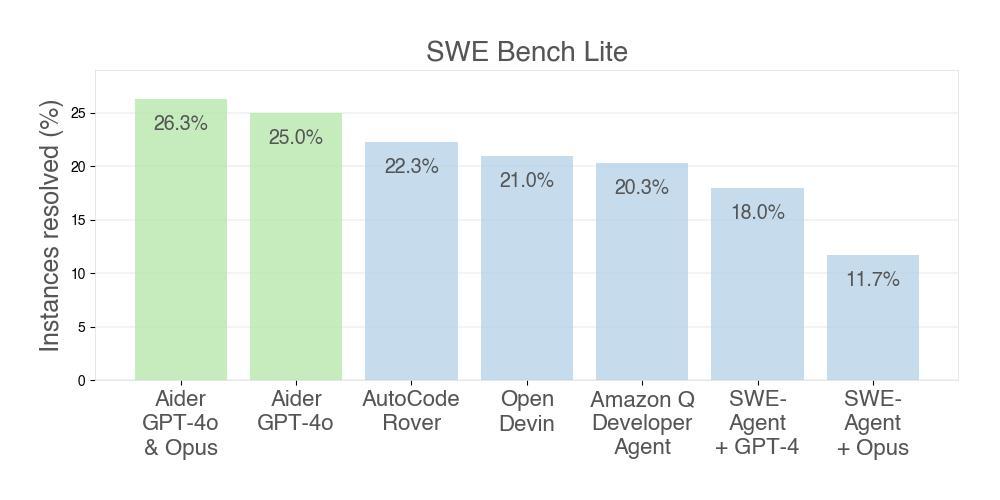
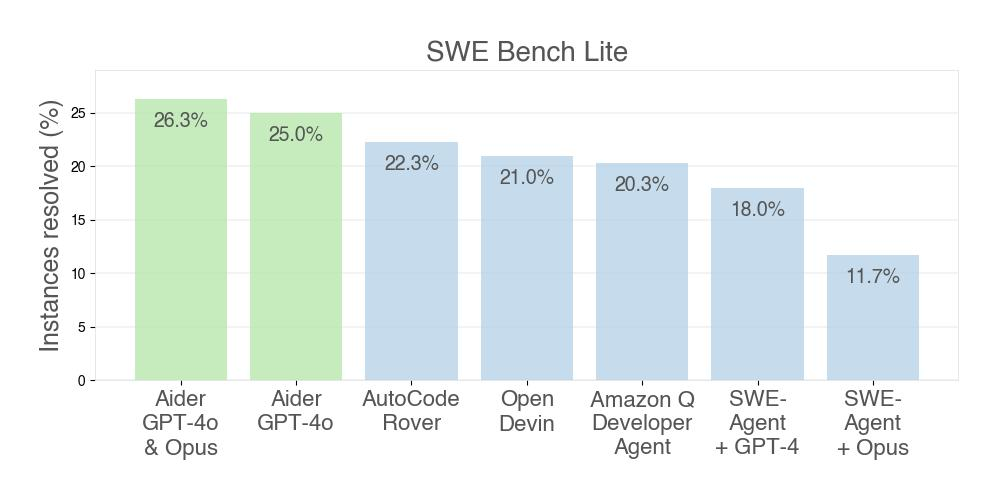
copy

diff --git a/benchmark/swe_bench_lite.py b/benchmark/swe_bench_lite.py
@@ -38,7 +38,7 @@ def plot_swe_bench_lite(data_file):
         yval = bar.get_height()
         ax.text(
             bar.get_x() + bar.get_width() / 2,
-            yval - 1.5,
+            yval - 1.25,
             f"{yval}%",
             ha="center",
             va="top",

diff --git a/_posts/2024-05-22-swe-bench-lite.md b/_posts/2024-05-22-swe-bench-lite.md
@@ -23,21 +23,21 @@ The best result reported elsewhere seems to be
 Aider achieved this result mainly through its focus on static code analysis,
 reliable LLM code editing,
 and pragmatic workflows for interactive pair programming with AI.
-Aider intentionally has quite limited and narrow "agentic behavior":
-it doesn't require a highly detailed upfront "spec" from the user,
-use RAG or vector search, farm out sub-problems to an army of LLMs,
-allow the LLM to use tools,
-or perform web searches,
-etc.
+Aider intentionally has quite limited and narrow "agentic behavior"
+to avoid long delays, high token costs
+and the need for users to repeatedly code review incorrect solutions.
+It's also worth noting that aider currently does not use
+RAG, vector search, tools or give the LLM access to execute code
+or run web searches.
 
-Aider is first and foremost a tool for engineers to get real work done in
-real code bases through a pair programming chat style interface.
-When a user asks aider for a change, they see the edits performed in real-time,
-and aider may also then offer additional
-help like fixing lint or test errors.
-In normal use, the user is in full interactive control. 
+Aider is first and foremost an interactive tool for engineers to get real work done in
+real code bases using a chat interface.
+Aider provides a pair programming experience where users can ask for a change
+and see the edits performed in real-time.
+Aider can also offer additional help like fixing lint or test errors,
+but the user is always in full interactive control.
 This lets them quickly steer misunderstandings back on course and
-avoid wasted time, code reviews and token costs.
+avoid wasting time and token costs.
 
 
 ## Benchmark methodology
